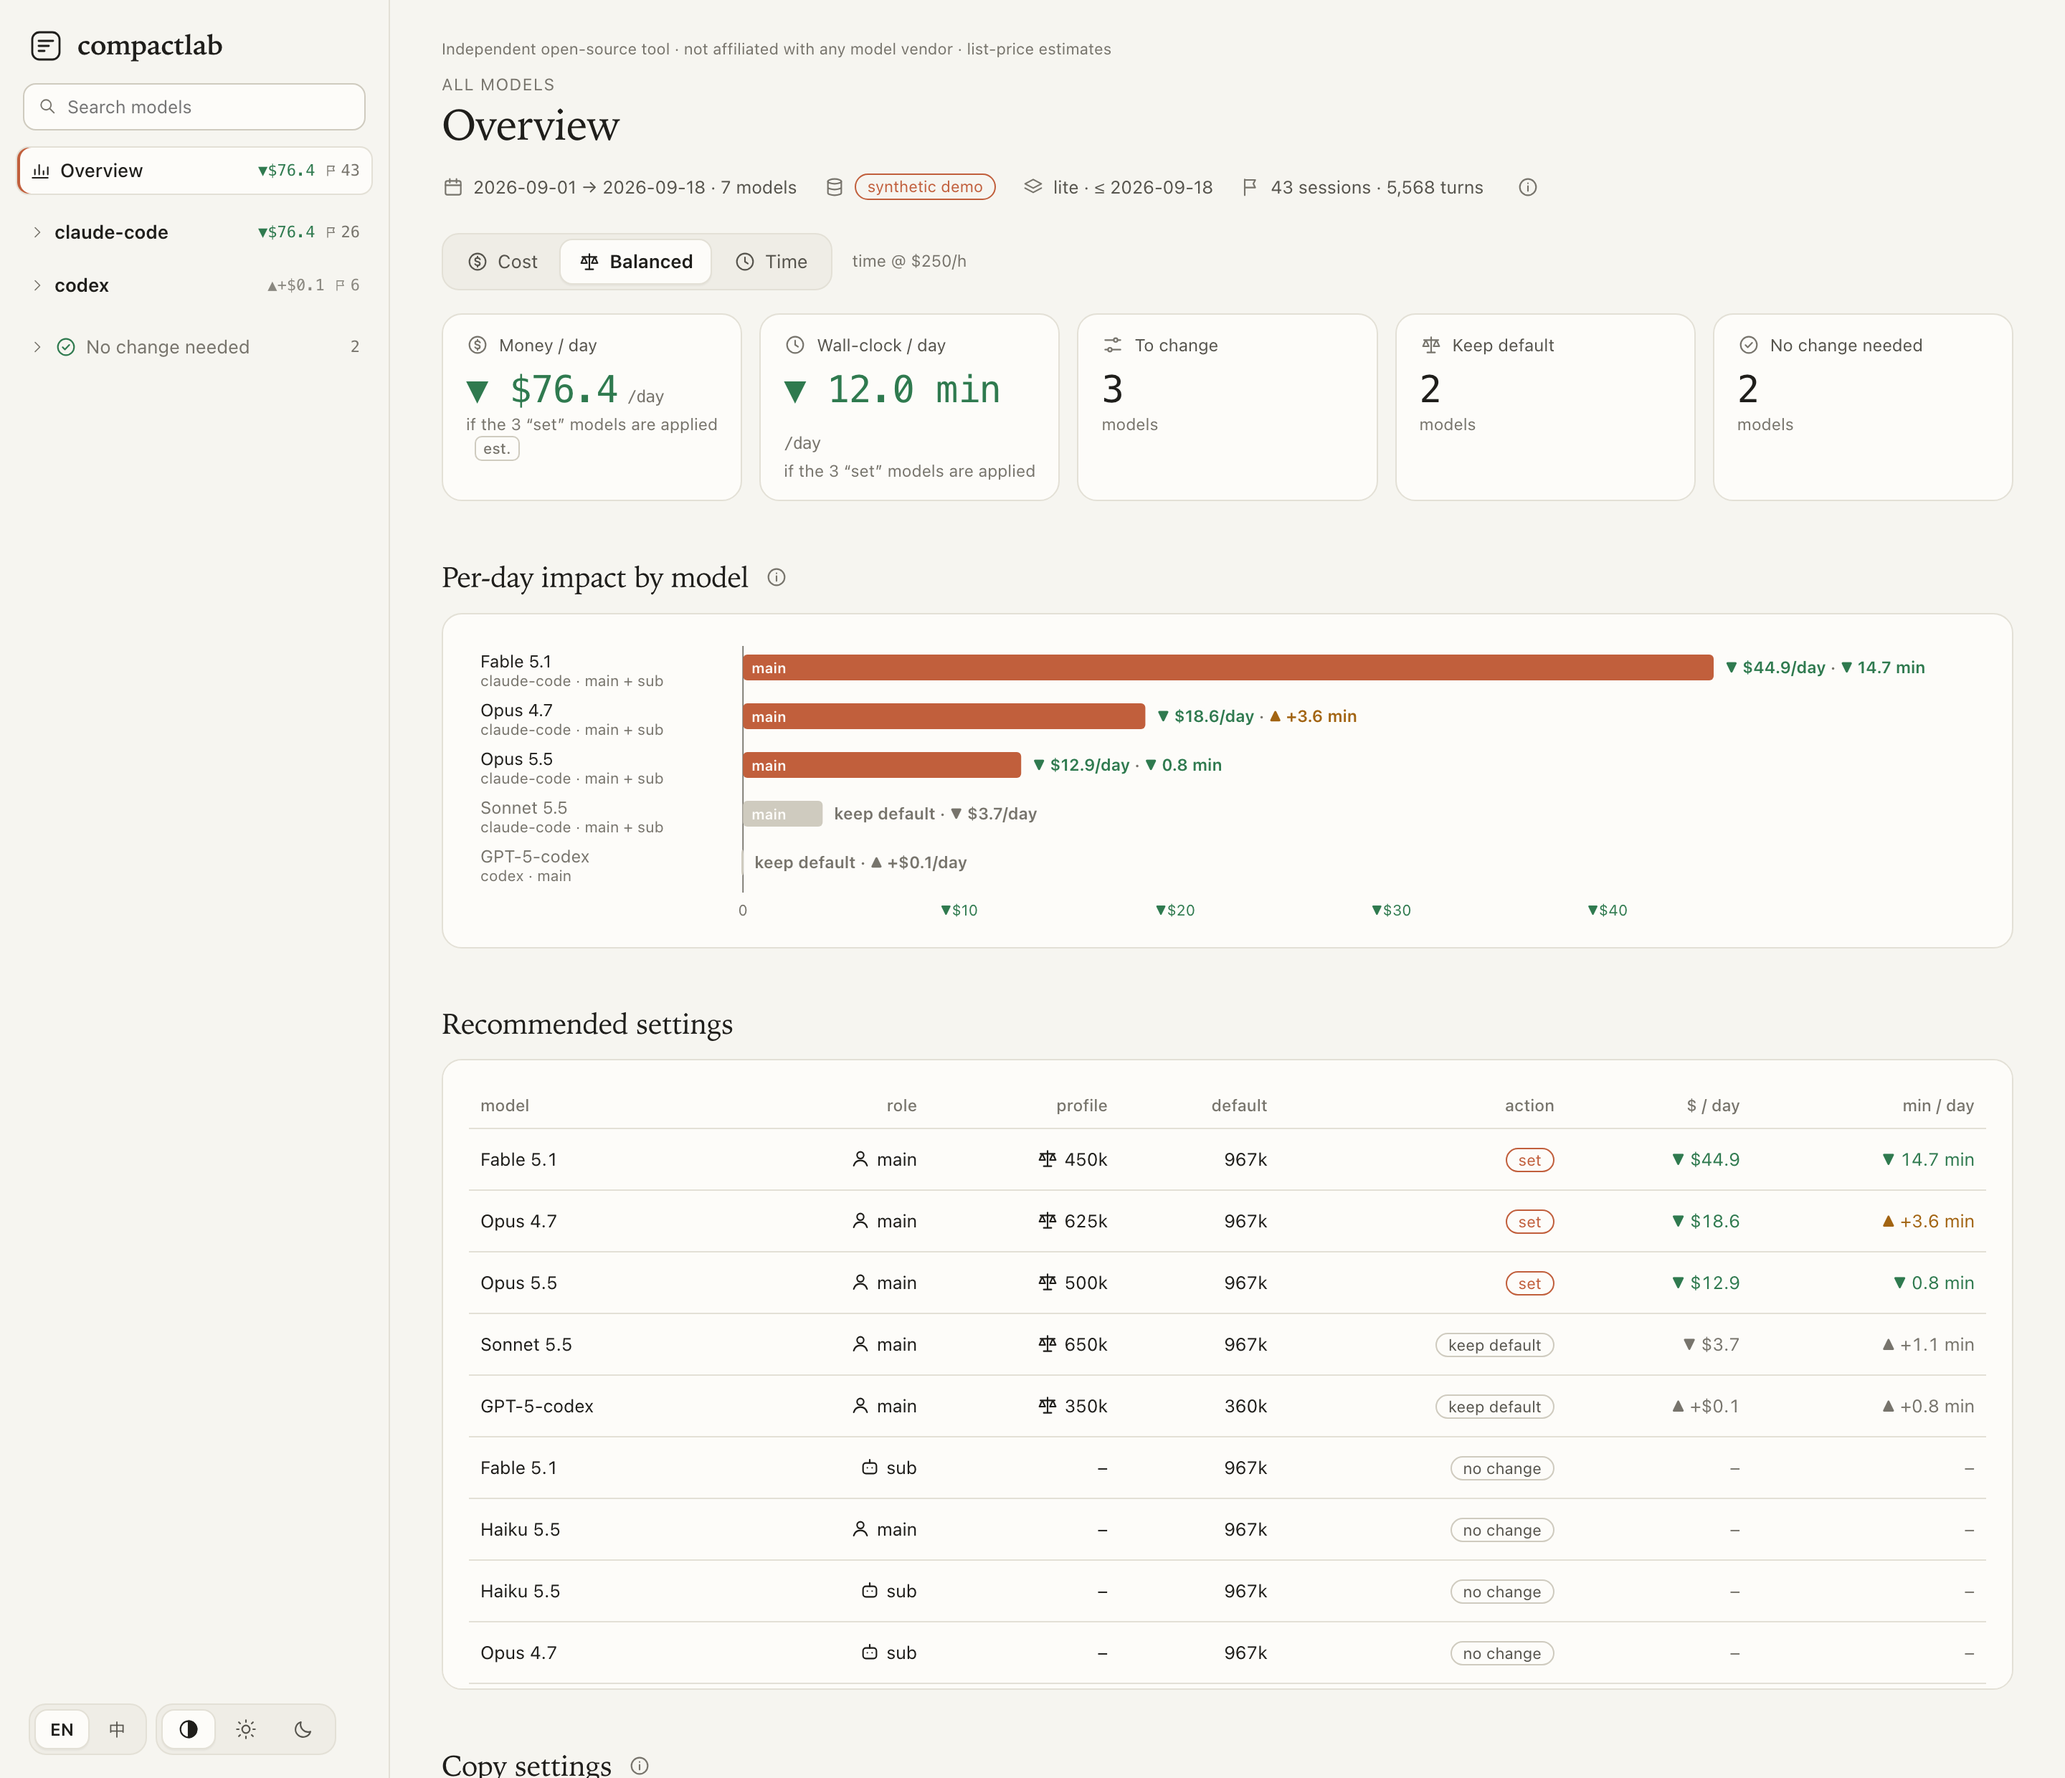
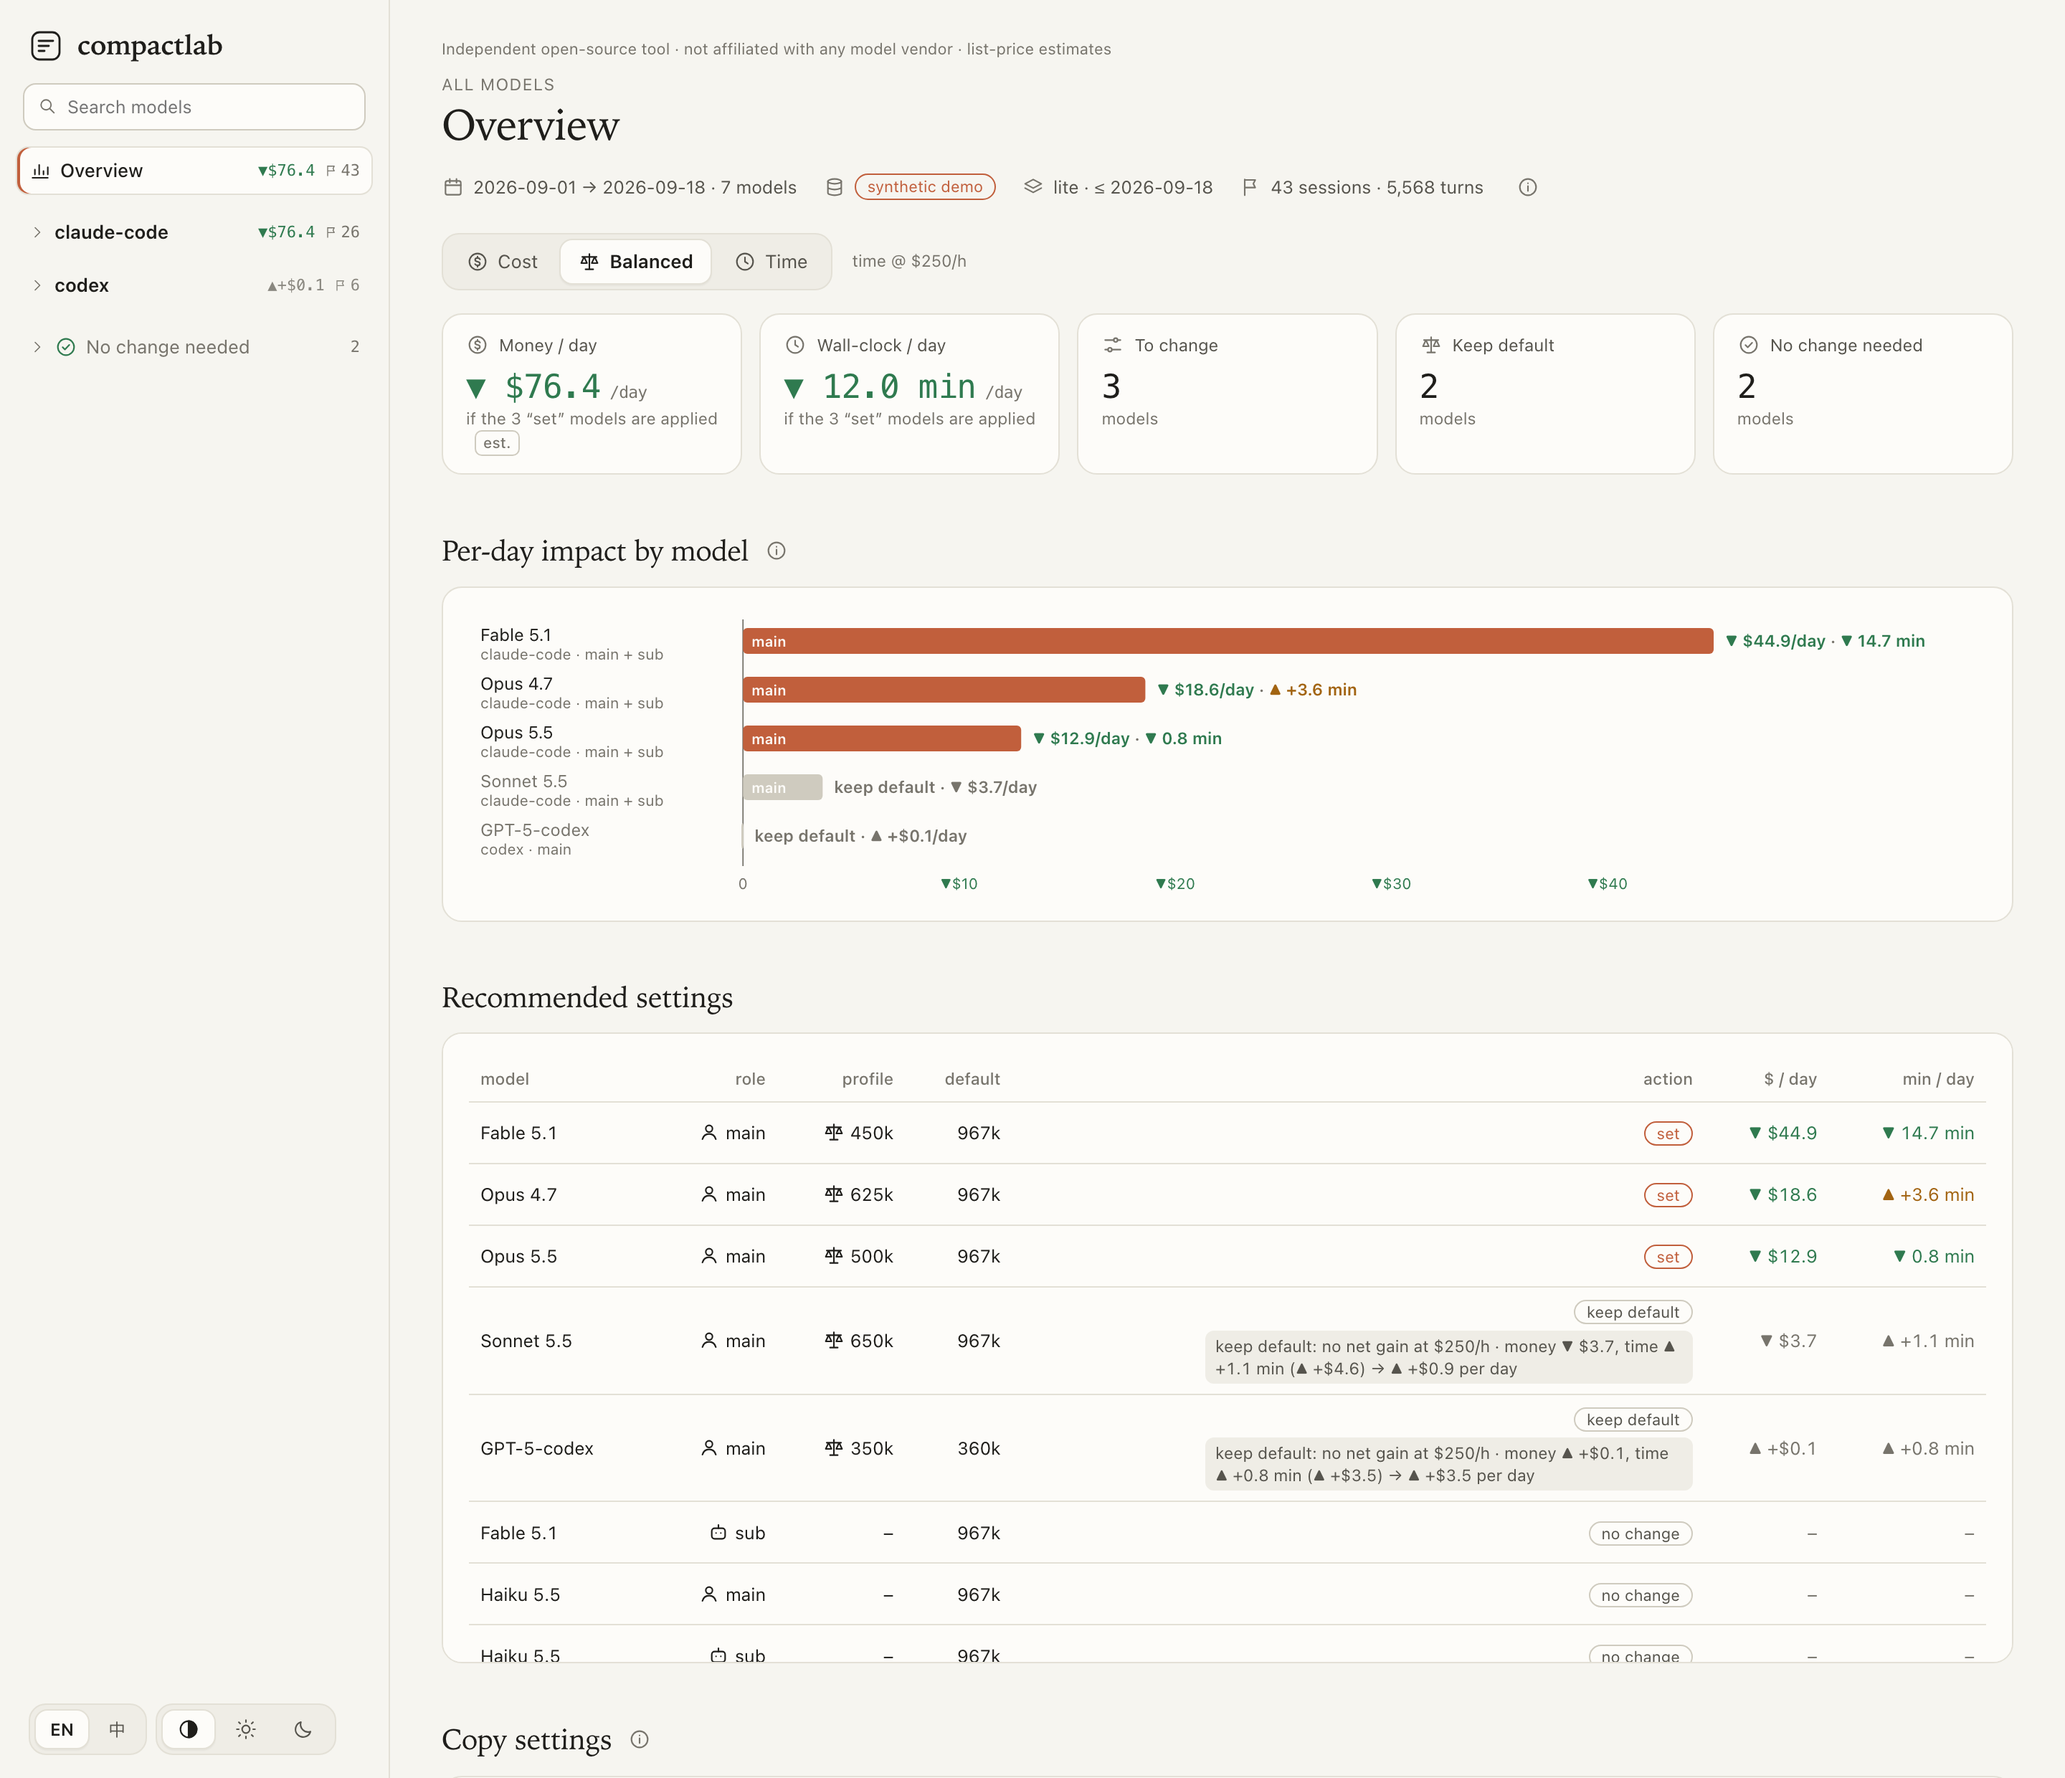
Report: say why a profile keeps the default; keep KPI units on one line
The reason comes from the engine's own keep-default tests (threshold not below the default, or no net gain at
the profile's price of time) and shows on the Overview table, the profile card and the answer line.

diff --git a/src/compactlab/report/template.html b/src/compactlab/report/template.html
@@ -165,6 +165,9 @@ svg.mainc{touch-action:pan-y;user-select:none;-webkit-user-select:none}
 .mute,td.mute{color:var(--ink3)!important}tspan.mute{fill:var(--ink3)}tspan.good{fill:var(--good)}tspan.warn{fill:var(--amber)}
 .smk{fill:var(--line2)}.ovrow.keep .ovname{fill:var(--ink3)}
 .bdg i{display:inline-flex;align-items:center;gap:2px}.bdg i svg.ic{width:10px;height:10px;vertical-align:0}.bdg.mute{opacity:.85}
+.kw{font-size:11.5px;line-height:1.35;color:var(--ink2);background:var(--bg2);border-radius:6px;padding:3px 7px;margin-top:4px;white-space:normal;text-align:left;max-width:340px;margin-left:auto}
+.pc .kw{margin:0;max-width:none}.ans2.kw{margin:0;padding:1px 7px}.ans2.kw::before{content:none}
+.kpi .v .nw{white-space:nowrap}#ovw .kpi .v{font-size:23px}
 .indep{font-size:11px;color:var(--ink3);margin-bottom:8px}
 #marks.compact .mk.r1 .tx{display:none}
 .live{display:inline-flex;align-items:center;gap:6px;flex-wrap:wrap}.live .tval{min-width:0;font-size:18px}
@@ -447,6 +450,8 @@ const I={
  cmpS:['/d','/天'], compAtDef:[n=>n+' compactions at default',n=>'默认下压缩 '+n+' 次'],
  peaksK:[n=>'session peaks (tallest '+n+')',n=>'会话峰值(最高 '+n+')'], unsafeK:[f=>'recall < '+f+' (lite proxy)',f=>'召回 < '+f+'(lite 代理值)'],
  kTotSub:[n=>'if the '+n+' “set” models are applied',n=>'应用 '+n+' 个“设置”模型时'], kKeep:['Keep default','保持默认'], mUnit:['models','个模型'],
+ kwAbove:[(a,b)=>'keep default: '+a+' is not below the default '+b,(a,b)=>'保持默认:'+a+' 不低于默认值 '+b],
+ kwScore:[(v,u,m,tv,n)=>'keep default: no net gain at $'+v+'/h · money '+u+', time '+m+' ('+tv+') → '+n+' per day',(v,u,m,tv,n)=>'保持默认:按 $'+v+'/小时 没有净收益 · 费用 '+u+',时间 '+m+'('+tv+')→ 每天 '+n],
  hSessG:[x=>'Sessions · '+x,x=>'会话 · '+x], hSessAll:['All sessions','全部会话'],
  ovRange:[(a,b,n)=>a+' → '+b+' · '+n+' models',(a,b,n)=>a+' → '+b+' · '+n+' 个模型']
 };
@@ -503,6 +508,10 @@ function best(){const key=g=>[isSet(g)?1:0,Math.abs(usdOf(g)),g.n_turns];let b=-
   D.groups.forEach((g,i)=>{if(g.no_action_needed)return;const k=key(g);if(!bk||k[0]>bk[0]||(k[0]===bk[0]&&(k[1]>bk[1]+1e-9||(Math.abs(k[1]-bk[1])<=1e-9&&k[2]>bk[2])))){b=i;bk=k}});return b}
 function action(g,thr,vot){if(g.no_action_needed)return 'aNo';const d=g.default,i=g.grid.indexOf(thr),p=pt(g,i);
   return (thr>=d.threshold||p.combined_cost+p.time_s/3600*vot>=d.combined_cost+d.time_s/3600*vot)?'aKeep':'aSet'}
+// why a threshold keeps the default: the same two tests as action() and compactlab.sim.engine._comparison
+function keepWhy(g,thr,vot){const d=g.default;if(g.no_action_needed)return '';if(thr>=d.threshold)return t('kwAbove',fk(thr),fk(d.threshold));
+  const im=impJS(pt(g,g.grid.indexOf(thr)),d,g),u=im.usd.per_day,m=im.minutes.per_day,tv=m/60*vot;
+  return t('kwScore',vot,fsv(u),fmv(m),fsv(tv),fsv(u+tv))}
 function paretoIdx(sc,rc){return sc.map((_,i)=>i).filter(i=>!sc.some((_,j)=>sc[j]<=sc[i]&&rc[j]>=rc[i]&&(sc[j]<sc[i]||rc[j]>rc[i])))}
 function setGear(k){S.gear=k;if(k!=='custom'){S.T=G().profiles[k].threshold;S.vot=G().profiles[k].value_of_time}update()}
 function setT(T){S.gear=PROF.find(k=>G().profiles[k].threshold===T&&k===S.gear)||'custom';S.T=T;update()}
@@ -758,7 +767,7 @@ function controls(){const g=G(),i=g.grid.indexOf(S.T),r=g.recommendation,p=pt(g,
   const fl=r.recall_floor,lo=Math.min(fl,p.recall,d.recall)-.02,gp=v=>((v-lo)/(1-lo)*100).toFixed(1)+'%';
   const dcp=im.compactions.per_day-im.ref_compactions.per_day;
   $('#ans').innerHTML=answer(im.usd.per_day,im.minutes.per_day,t('vsDefL',def))+(icur?'<span class="ans2">'+answer(icur.usd.per_day,icur.minutes.per_day,t('vsCurL',fk(g.current.configured??g.current.threshold)))+'</span>':'<span class="ans2 cap">'+esc(t('noCur'))+'</span>');
-  const cb=$('#cpOne'),keepIt=action(g,S.T,S.vot)!=='aSet';cb.disabled=keepIt;cb.dataset.tip=keepIt?t('cpKeep'):t('cpOneTip',snippet(g,S.T));cb.setAttribute('aria-label',t('cpCopy')+': '+(keepIt?t('cpKeep'):snippet(g,S.T)));
+  const cb=$('#cpOne'),keepIt=action(g,S.T,S.vot)!=='aSet';if(keepIt)$('#ans').insertAdjacentHTML('beforeend','<span class="ans2 kw">'+esc(keepWhy(g,S.T,S.vot))+'</span>');cb.disabled=keepIt;cb.dataset.tip=keepIt?t('cpKeep'):t('cpOneTip',snippet(g,S.T));cb.setAttribute('aria-label',t('cpCopy')+': '+(keepIt?t('cpKeep'):snippet(g,S.T)));
   $('#kpis').innerHTML=`
    <div class="kpi"><div class="kh">${ic('refresh')}<span>${t('kComp')}</span></div><div class="v">${im.compactions.per_day.toFixed(1)}</div>
      <div class="kr">${chip(arrow(dcp)+(dcp>=0?'+':MINUS)+Math.abs(dcp).toFixed(1),'')}<span class="cap">${esc(t('cCompSub',im.ref_compactions.per_day.toFixed(1),Math.round(im.compactions.per_month)))}</span></div></div>
@@ -798,7 +807,7 @@ function impactPanel(){const g=G(),box=$('#fImpact');
         `</div><span class="cap">${esc(t('cSplit',fmin(w,B),fmin(tg,B)))}</span></div>`}).join('');
     return `<article class="pc ${k===S.gear?'sel':''}" data-pc="${k}"><header>${ic(PICON[k],t(k))}<span class="pn">${t(k)}${k===g.profile?'&nbsp;★':''}</span>${flagIcons(P)}<span class="act ${act==='aSet'?'set':''}">${t(act)}</span></header>
      <div class="tb"><span class="cap">${t('threshold')}</span><span class="pt" title="${esc(t('iFrac',Math.round(frac*100),fk(emax)))}">${fk(P.threshold)}</span></div>
-     ${rows}</article>`}).join('');
+     ${act==='aKeep'?`<div class="kw">${esc(keepWhy(g,P.threshold,P.value_of_time))}</div>`:''}${rows}</article>`}).join('');
   const cap=hasAct?t('iCap',fdays(Math.max(g.days,1)),fdays(g.active_days)):t('iCapNo',fdays(Math.max(g.days,1)));
   box.innerHTML=`<div class="ihead"><div class="seg sm" data-k="basis" role="group" aria-label="${t('bLabel')}">${bases.map(([k,l])=>`<button data-basis="${k}" aria-pressed="${B===k}">${t(l)}</button>`).join('')}</div><span class="cap">${esc(cap)}</span>${hasAct?'':ib(t('iNoActive'),'info')}<span class="est">${t('est')}</span></div>
    <div class="pcs">${cards}</div>`;
@@ -972,7 +981,7 @@ function renderOverview(){overviewHeader();const box=$('#ovw'),k=S.op;
   const tu=models.reduce((a,m)=>a+m.usd,0),tm=models.reduce((a,m)=>a+m.min,0),cnt=st=>models.filter(m=>m.st===st).length;
   const kpi=(icn,lab,v,cls,sub)=>`<div class="kpi"><div class="kh">${ic(icn)}<span>${t(lab)}</span></div><div class="v ${cls||''}">${v}</div>${sub?`<div class="cap">${sub}</div>`:''}</div>`;
   box.innerHTML=`<div class="ovbar"><div class="seg" role="group" aria-label="${t('gear')}">${PROF.map(p=>`<button data-op="${p}" aria-pressed="${p===k}" aria-label="${t(p)}">${ic(PICON[p])}<span class="gt">${t(p)}</span></button>`).join('')}</div><span class="vot">${esc(t('votS',D.groups[0]?D.groups[0].profiles[k].value_of_time:0))}</span></div>
-   <div class="kpis">${kpi('coin','kTotUsd',fsv(tu)+'<span class="cap"> '+t('uDay')+'</span>',tone(tu),esc(t('kTotSub',cnt('set')))+' <span class="est">'+t('est')+'</span>')+kpi('clock','kTotMin',fmv(tm)+'<span class="cap"> '+t('uDay')+'</span>',tone(tm),esc(t('kTotSub',cnt('set'))))+
+   <div class="kpis">${kpi('coin','kTotUsd','<span class="nw">'+fsv(tu)+'<span class="cap"> '+t('uDay')+'</span></span>',tone(tu),esc(t('kTotSub',cnt('set')))+' <span class="est">'+t('est')+'</span>')+kpi('clock','kTotMin','<span class="nw">'+fmv(tm)+'<span class="cap"> '+t('uDay')+'</span></span>',tone(tm),esc(t('kTotSub',cnt('set'))))+
      kpi('sliders','kToSet',String(cnt('set')),'',esc(t('mUnit')))+kpi('scale','kKeep',String(cnt('keep')),'',esc(t('mUnit')))+kpi('check','kNoCh',String(cnt('noop')),'',esc(t('mUnit')))}</div>
    <h2>${t('ovChart')}${ib(t('ovHelp'))}</h2><div class="card fig" id="fOv"></div>
    <h2>${t('ovTable')}</h2><div class="card scroll" id="ovT"></div>`;
@@ -1003,7 +1012,7 @@ function renderOverview(){overviewHeader();const box=$('#ovw'),k=S.op;
   const rk=g=>g.no_action_needed?2:isSet(g,k)?0:1;
   const tr=D.groups.map((g,i)=>[g,i]).sort((a,b)=>rk(a[0])-rk(b[0])||Math.abs(usdOf(b[0],k))-Math.abs(usdOf(a[0],k)));
   $('#ovT').innerHTML='<table><tr>'+['cModel','cRole','cTier','cDef','cAct','cUsd','cMin'].map(c=>'<th>'+t(c)+'</th>').join('')+'</tr>'+tr.map(([g,i])=>{const P=g.profiles[k],a=action(g,P.threshold,P.value_of_time),u=usdOf(g,k),mn=minOf(g,k),mu=a==='aSet'?'':' mute';
-    return `<tr><td><button type="button" data-tab="${i}" title="${esc(g.model)}">${esc(label(g.model))}</button></td><td>${ic(roleIc(g.role))} ${esc(roleS(g.role))}</td><td>${g.no_action_needed?'–':ic(PICON[k])+' '+fk(P.threshold)}</td><td>${fk(g.default.threshold)}</td><td><span class="act ${a==='aSet'?'set':''}">${t(a)}</span></td><td class="${tone(u)}${mu}">${g.no_action_needed?'–':fsv(u)}</td><td class="${tone(mn)}${mu}">${g.no_action_needed?'–':fmv(mn)}</td></tr>`}).join('')+'</table>';
+    return `<tr><td><button type="button" data-tab="${i}" title="${esc(g.model)}">${esc(label(g.model))}</button></td><td>${ic(roleIc(g.role))} ${esc(roleS(g.role))}</td><td>${g.no_action_needed?'–':ic(PICON[k])+' '+fk(P.threshold)}</td><td>${fk(g.default.threshold)}</td><td><span class="act ${a==='aSet'?'set':''}">${t(a)}</span>${a==='aKeep'?`<div class="kw">${esc(keepWhy(g,P.threshold,P.value_of_time))}</div>`:''}</td><td class="${tone(u)}${mu}">${g.no_action_needed?'–':fsv(u)}</td><td class="${tone(mn)}${mu}">${g.no_action_needed?'–':fmv(mn)}</td></tr>`}).join('')+'</table>';
   $('#ovT').querySelectorAll('[data-tab]').forEach(b=>b.onclick=()=>pick(+b.dataset.tab));
   copyPanel();renderS()}
 // update(): everything that depends on the selected threshold/profile; render(): full rebuild (group or language change)

diff --git a/tests/test_report_dom.py b/tests/test_report_dom.py
@@ -134,6 +134,9 @@ CHECK = """
       ok(v.startsWith(fsv(want)),'overview total '+v+' != '+fsv(want));
       ok(D.groups.some(x=>!x.no_action_needed&&!isSet(x))?document.querySelector('#fOv .ovrow.keep'):true,'keep-default rows not greyed')}
     ok(/^All sessions/.test(document.getElementById('hSess').textContent),'overview sessions title');
+    // a "keep default" row says which rule kept it
+    D.groups.forEach((x,i)=>{const P=x.profiles[S.op];if(action(x,P.threshold,P.value_of_time)!=='aKeep')return;
+      const tr=document.querySelector(`#ovT [data-tab="${i}"]`).closest('tr');ok(tr.querySelector('.kw')&&/keep default: /.test(tr.querySelector('.kw').textContent),'keep-default row without a reason: '+x.model)});
     // a no-change group: a short state and the peaks chart, no empty cards, no warning triangles
     const ni=D.groups.findIndex(x=>x.no_action_needed);ok(ni>=0,'fixture has no no-change group');
     if(ni>=0){const nb=document.querySelector(`#tree [data-tab="${ni}"]`);if(nb)nb.click();else pick(ni);

diff --git a/docs/REPORT_UI.md b/docs/REPORT_UI.md
@@ -109,6 +109,11 @@ status icons.
   Rows open the model.
 - Roll-up table: every group with its profile threshold, the default, the action and the per-day numbers
   (greyed unless the action is "set").
+- A "keep default" row carries a one-line reason from the same two tests the engine uses
+  (`sim/engine.py` `_comparison`): the profile threshold is not below the default, or its score (cost + time x
+  price of time) is not below the default's, e.g. `no net gain at $250/h · money ▼ $3.7, time ▲ +1.1 min
+  (▲ +$4.6) → ▲ +$0.9 per day`. The same reason shows on the model page's profile card and in the answer line
+  when the cursor sits on such a threshold.
 
 ## Sessions table
 
